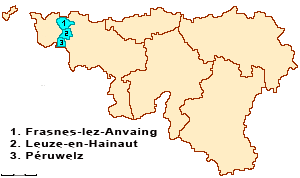
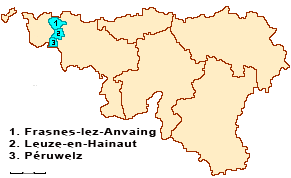
ipplf :: newsletter
- mise en place du portlet d'enregistrement à la newsletter
- modification des portlets
- modification de l'affichage --> css display table
- modification des tailles de police
- modification de la carte
- modications des rules de diazo poiur positionner le portlet newsletter

diff --git a/ipplf/skin/skins/ipplf_skin_styles/ipplf_plone_style.css b/ipplf/skin/skins/ipplf_skin_styles/ipplf_plone_style.css
@@ -26,7 +26,7 @@ padding-bottom: 0.5em;
 #content a:link,
 #content a.internal-link,
 dl.portlet a:link {
-border-bottom: 0.1em solid #ccc;
+/*border-bottom: 0.1em solid #888;*/
 color: #c9570b !important;
 }
 
@@ -37,6 +37,10 @@ border-bottom: 0.1em solid #ccc;
 color: #f17a32 !important;
 }
 
+dl.portlet{
+font-size:1em;
+}
+
 dl.portlet.portletNavigationTree,
 dl.portlet.QuickUploadPortlet{
 border:1px solid #D39E65;
@@ -44,9 +48,58 @@ border-radius:18px;
 background:#ffeec5;
 }
 
+
+div#info-home-page h2,
+div#portlet-inscription-newsletter dt.portletHeader{
+background-color:transparent !important;
+border-bottom:1px dotted #f79016;
+text-transform:small-caps;
+text-align:center;
+color:#8b292c !important;
+font-size:12pt;
+}
+
+div#info-home-page h2{
+font-size:13pt;
+letter-spacing:1px;
+}
+
+div#portlet-inscription-newsletter{
+padding:6px 1.2em 1.2em 1.2em;
+}
+
+article.ipplfnews-content{
+line-height:normal;
+font-size:0.8em;
+}
+
+article.ipplfnews-content a{
+display:block;
+border-radius:6px;
+}
+
+article.ipplfnews-content a:hover{
+text-decoration:none;
+background-color:rgba(250,250,250, 0.5);
+}
+
+article.ipplfnews-content h3.ipplfnews-title{
+margin:0;
+padding-left:3px;
+}
+
+article.ipplfnews-content h3.ipplfnews-title{
+color:#005c00;
+}
+
+article.ipplfnews-content p{
+padding:3px 5px 0px 9px;
+}
+
+/*
 .portletHeader{
-border-radius:18px 18px 0px 0px;
-background-color:#f2d18e !important;
+background-color:transparent !important;
+border-bottom:1px dotted #f79016;
 text-transform:small-caps;
 text-align:center;
 color:#8b292c !important;
@@ -55,6 +108,7 @@ color:#8b292c !important;
 .portletHeader a:link{
 color:#8b292c !important;
 }
+*/
 
 dl.portlet ul.navTree .navTreeCurrentItem {
 background-color: #dec099;

diff --git a/ipplf/skin/skins/ipplf_skin_styles/ipplf_home_page_style.css b/ipplf/skin/skins/ipplf_skin_styles/ipplf_home_page_style.css
@@ -1,10 +1,36 @@
-#carte-wallonie-ipplf{
-float:left;
-margin-left:30px;
+/*
+Skin package for IPPLF website CSS
+BY AFFINITIC
+
+style for homepage
+*/
+
+
+
+#bloc-portlet{
+display:table;
+border-collapse:separate;
+border-spacing:8px 0px;
+width:100%;
+}
+
+
+#carte-wallonie-ipplf,
+#portlet-inscription-newsletter,
+#info-home-page{
+display:table-cell;
+width:285px;
+vertical-align:top;
+margin:0px 10px 0px 0px;
 border-radius:25px;
 border:1px solid #D39E65;
 min-height:180px;
 padding:1.2em;
+
+}
+
+#carte-wallonie-ipplf{
+vertical-align:middle;
 background: rgb(242,245,246); /* Old browsers */
 background: -moz-linear-gradient(top,  rgba(242,245,246,1) 0%, rgba(227,234,237,1) 37%, rgba(200,215,220,1) 100%); /* FF3.6+ */
 background: -webkit-gradient(linear, left top, left bottom, color-stop(0%,rgba(242,245,246,1)), color-stop(37%,rgba(227,234,237,1)), color-stop(100%,rgba(200,215,220,1))); /* Chrome,Safari4+ */
@@ -16,13 +42,12 @@ filter: progid:DXImageTransform.Microsoft.gradient( startColorstr='#f2f5f6', end
 }
 
 
+#carte-wallonie-ipplf a:link{
+border-bottom:none !important;
+}
+
+#portlet-inscription-newsletter,
 #info-home-page{
-float:right;
-width:33%;
-min-height:180px;
-border-radius:25px;
-border:1px solid #D39E65;
-padding:1.2em;
 background: -moz-linear-gradient(top,  rgba(250,198,149,0.5) 0%, rgba(245,171,102,0.5) 47%, rgba(239,141,49,0.5) 100%); /* FF3.6+ */
 background: -webkit-gradient(linear, left top, left bottom, color-stop(0%,rgba(250,198,149,0.5)), color-stop(47%,rgba(245,171,102,0.5)), color-stop(100%,rgba(239,141,49,0.5))); /* Chrome,Safari4+ */
 background: -webkit-linear-gradient(top,  rgba(250,198,149,0.5) 0%,rgba(245,171,102,0.5) 47%,rgba(239,141,49,0.5) 100%); /* Chrome10+,Safari5.1+ */

diff --git a/ipplf/skin/static/css/style.css b/ipplf/skin/static/css/style.css
@@ -1,6 +1,10 @@
 /*
-Skin package for IPPLF website CSS BY AFFINITIC
+Skin package for IPPLF website CSS
+BY AFFINITIC
+
+style for static
 */
+
 html, body{
 height:100%;
 }
@@ -152,14 +156,13 @@ padding-right:10px;
 }
 
 #main-column-theme{
-float:right;
-width:74%;
-margin-right:10px;
+width:100%
+margin:auto;
 }
 
 #main-column-large-theme{
 float:none;
-width:95%;
+width:100%;
 margin:auto;
 }
 

diff --git a/ipplf/skin/static/index.html b/ipplf/skin/static/index.html
@@ -40,6 +40,7 @@
                 <div class="visualClear"></div>
             </div>
         </header><!--header-->
+
         <!--
         <div id="ipplf-slider">
             <img src="slide/img/images/leuze_005.jpg" style="width: 100%;">
